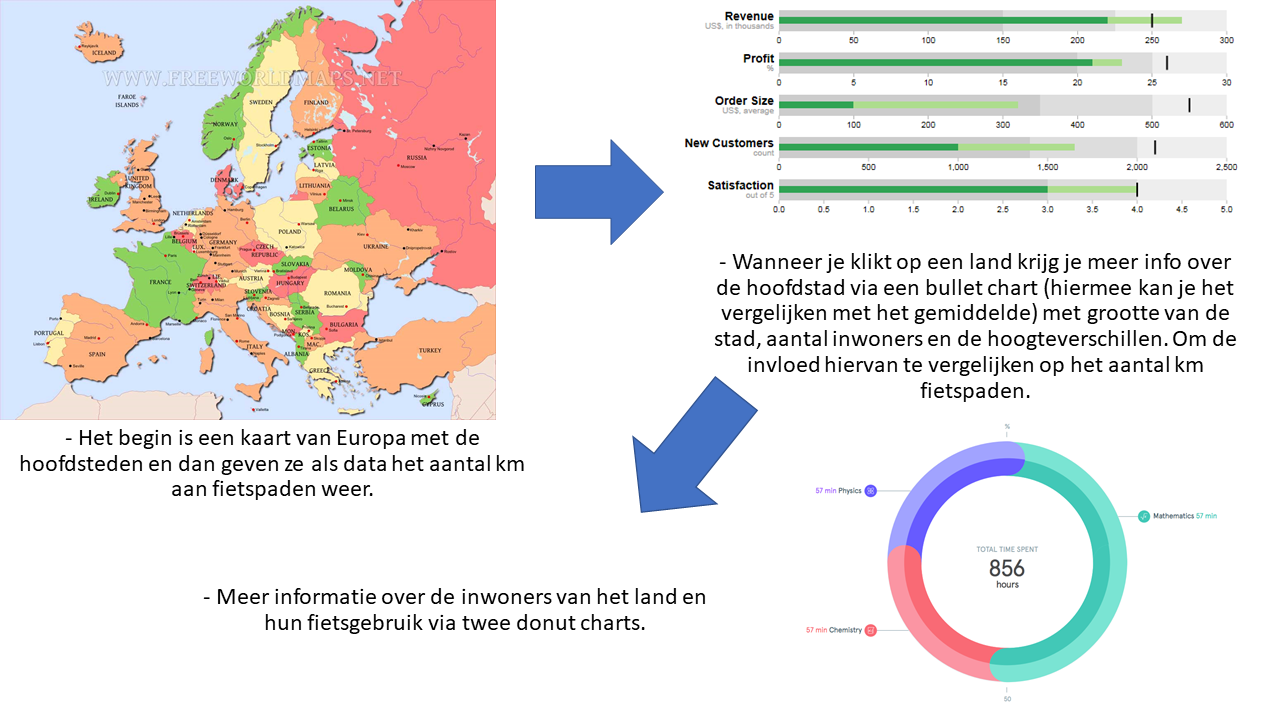
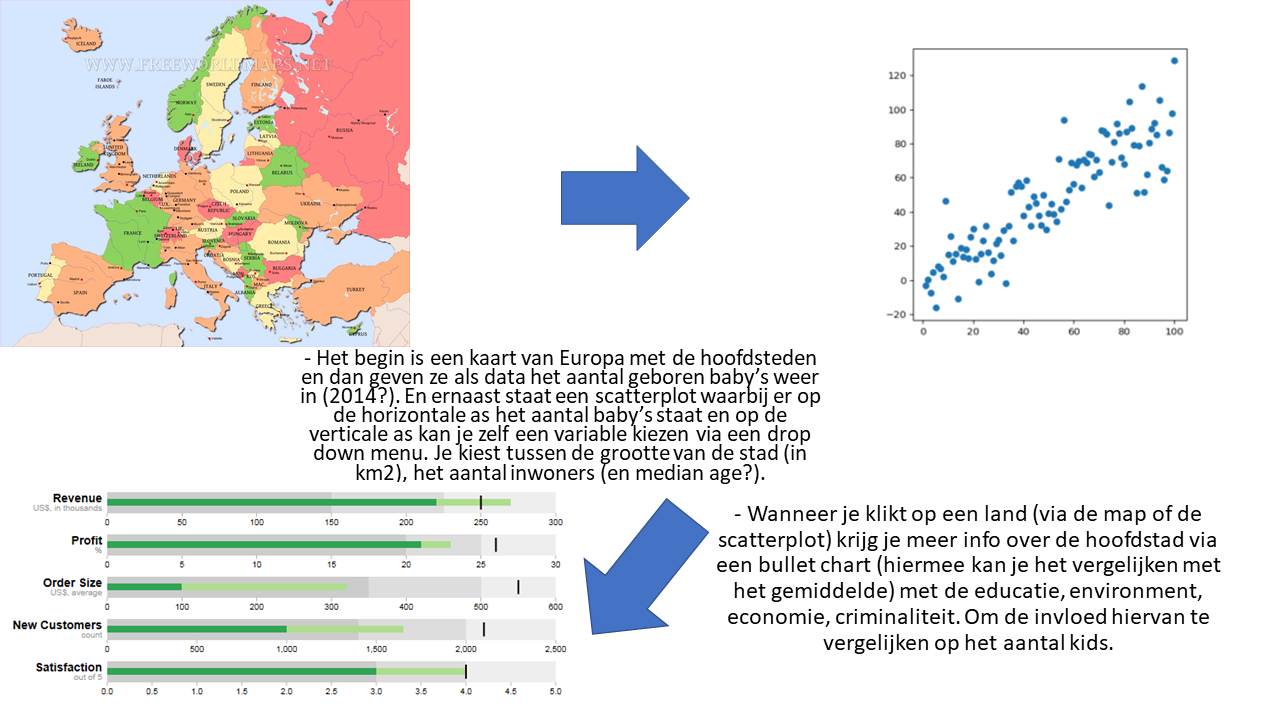
new proposal

diff --git a/README.md b/README.md
@@ -6,29 +6,27 @@ Pernille Deijlen
 [Pages](https://pernilledeijlen.github.io/Project/)
 
 # Project proposal
-Mijn visualisaties zullen informatie over fietspaden laten zien in hoofdsteden van Europa. Veel mensen weten waarschijnlijk niet hoe dit in vergelijking staat tot onze eigen hoofdstad Amsterdam. Op deze manier hoop ik hier een idee over te geven.
+Mijn visualisaties zullen informatie over het aantal geboortes laten zien van hoofdsteden van Europa. Veel mensen weten waarschijnlijk niet hoe dit in vergelijking staat tot onze eigen hoofdstad Amsterdam. Op deze manier hoop ik hier een idee over te geven.
 
 ## Sketch:
 ![sketch](doc/sketch.PNG)
 
 ## Features:
-Je begint dus met een kaart van Europa met de hoofdsteden en hierbij het aantal km aan fietspaden. Hierna wordt dit vergeleken met de grootte, het aantal inwoners en de hoogteverschillen van deze steden. Verder kan verder worden ingezoomd op de inwoners en hoe vaak zij de fiets gebruiken tov auto/openbaar vervoer enz. en hun redenen voor het gebruiken van de fiets (werk, school, oid). Ik twijfel hierbij nog of twee donut charts hier goed bij passen.
+Je begint met een kaart van Europa met de hoofdsteden en hierbij het aantal geboortes (waarschijnlijk voor 1 jaar aangezien de data niet anders toelaat). Hiernaast staat meteen een scatterplot, hier staat op de x-as het aantal geboortes, en op de y-as kun je zelf via een drop down menu de variable kiezen. Je kunt hierbij kiezen uit de grootte van de stad (in km2) en het aantal inwoners (en misschien ook de median age). Wanneer je over landen hovert op de map merk je dit ook op de scatterplot en andersom. Vervolgens kan er op een land/stad geklikt worden op de map of bij de legenda van de scatterplot. Er verschijnt dan een bullet chart met bij de titel de naam van de stad en het aantal geboortes vs het gemiddelde aantal geboortes en in de chart verdere informatie per stad zoals educatie, environment, economie en criminaliteit. Hierbij zie je ook het gemiddelde van alle landen zodat je kunt vergelijken.
 
 ## Data sources:
-Op dit moment heb ik nog geen data gevonden over aantal km fietspad voor andere hoofdsteden in Europa (het lijkt mij dat dit er gewoon is). Hier ga ik nog even verder naar zoeken aangezien het me interessant lijkt deze steden dan te vergelijken. Voor nu heb ik deze data alleen voor Amsterdam.
+Op dit moment heb ik voor alle hoofdsteden data gevonden over geboortes, educatie, environment, populatie, grootte in km2, quality of life (per land), happy planet index ( per land), criminaliteit, economie en een life satisfaction rate.
 
-Data fietspaden/inwoners/grootte enz van amsterdam: https://www.ois.amsterdam.nl/feiten-en-cijfers/#
+De data komt van Eurostat, OECD en happy planet index.
 
 ## Externe componenten:
 D3 library
 
 ## Review other visualisations:
-Er zijn wel fietspaden zichtbaar op een kaart voor europa of land maar deze worden nog niet met elkaar vergeleken.
+Er zijn kaarten beschikbaar met aantal geboortes maar niet die verder ingaan op eventuele invloeden hiervan.
 
 ## Lastige onderdelen:
-Het tot een logisch / goed verhaal te vormen.
-Hoogteverschil per stad: als ik dit op een duidelijke manier kan vinden.
-
+Het tot een logisch / goed verhaal te vormen en niet losse visulatisaties.
 
 
 
